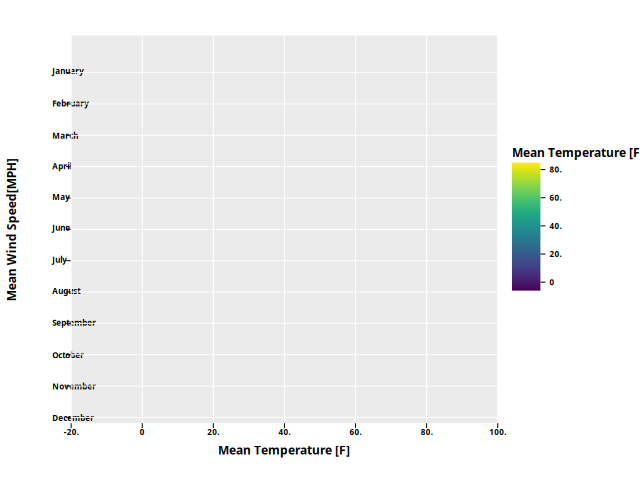
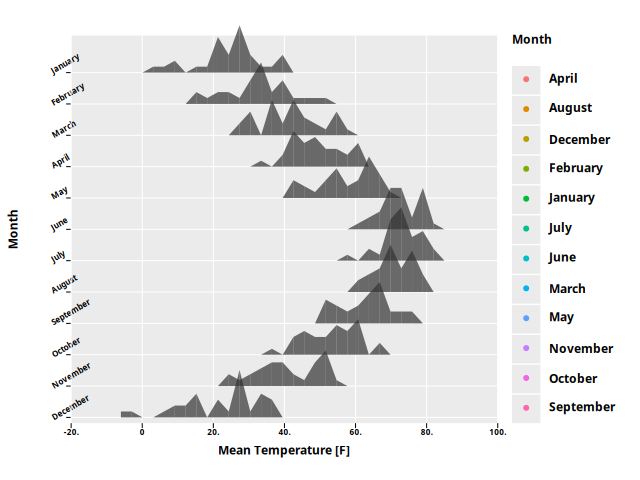
document gg ridges

diff --git a/tests/test_plots.py b/tests/test_plots.py
@@ -406,27 +406,16 @@ def test_ridges_weather():
         "November",
         "December",
     ]
-
-    weather["Month"] = pd.Categorical(
-        weather["Month"], categories=month_order, ordered=True
-    )
-    label_order = {
-        i: cnt for cnt, i in enumerate(weather["Month"].unique().sort_values())
-    }
+    label_order = {i: cnt for cnt, i in enumerate(month_order)}
 
     plot = (
         ggplot(
             weather,
-            aes(
-                x="Mean Temperature [F]",
-                y="Mean Wind Speed[MPH]",
-                fill="Mean Temperature [F]",
-            ),
+            aes(x="Mean Temperature [F]", y="Month", fill="Month"),
         )
-        + ggridges("Month", label_order=label_order, overlap=1.5)
-        + geom_freqpoly(
-            # aes(fill="Mean Temperature [F]"),
-        )
+        + ggridges("Month", label_order=label_order, overlap=1.7)
+        + geom_area(stat="bin", alpha=0.7)
+        + ylab(rotate=-30)
     )
 
     res = ggcreate(plot)

diff --git a/README.md b/README.md
@@ -181,6 +181,41 @@ ggdraw_plot(res, plots_path / "geom_histogram_fill.png")
 
 
 ```python
+    weather = pd.read_csv(data_path / "lincoln-weather.csv")
+
+    month_order = [
+        "January",
+        "February",
+        "March",
+        "April",
+        "May",
+        "June",
+        "July",
+        "August",
+        "September",
+        "October",
+        "November",
+        "December",
+    ]
+    label_order = {i: cnt for cnt, i in enumerate(month_order)}
+
+    plot = (
+        ggplot(
+            weather,
+            aes(x="Mean Temperature [F]", y="Month", fill="Month"),
+        )
+        + ggridges("Month", label_order=label_order, overlap=1.7)
+        + geom_area(stat="bin", alpha=0.7)
+        + ylab(rotate=-30)
+    )
+
+    res = ggcreate(plot)
+    ggdraw_plot(res, plots_path / "ridgets_weather.png")
+```
+<img src="plots/ridgets_weather.png?v=1" alt="ridgets_weather" width="400px">
+
+
+```python
     df = pd.DataFrame({
         'x': [1, 3, 5, 2, 4, 6],
         'y': [2, 5, 1, 3, 6, 7]
